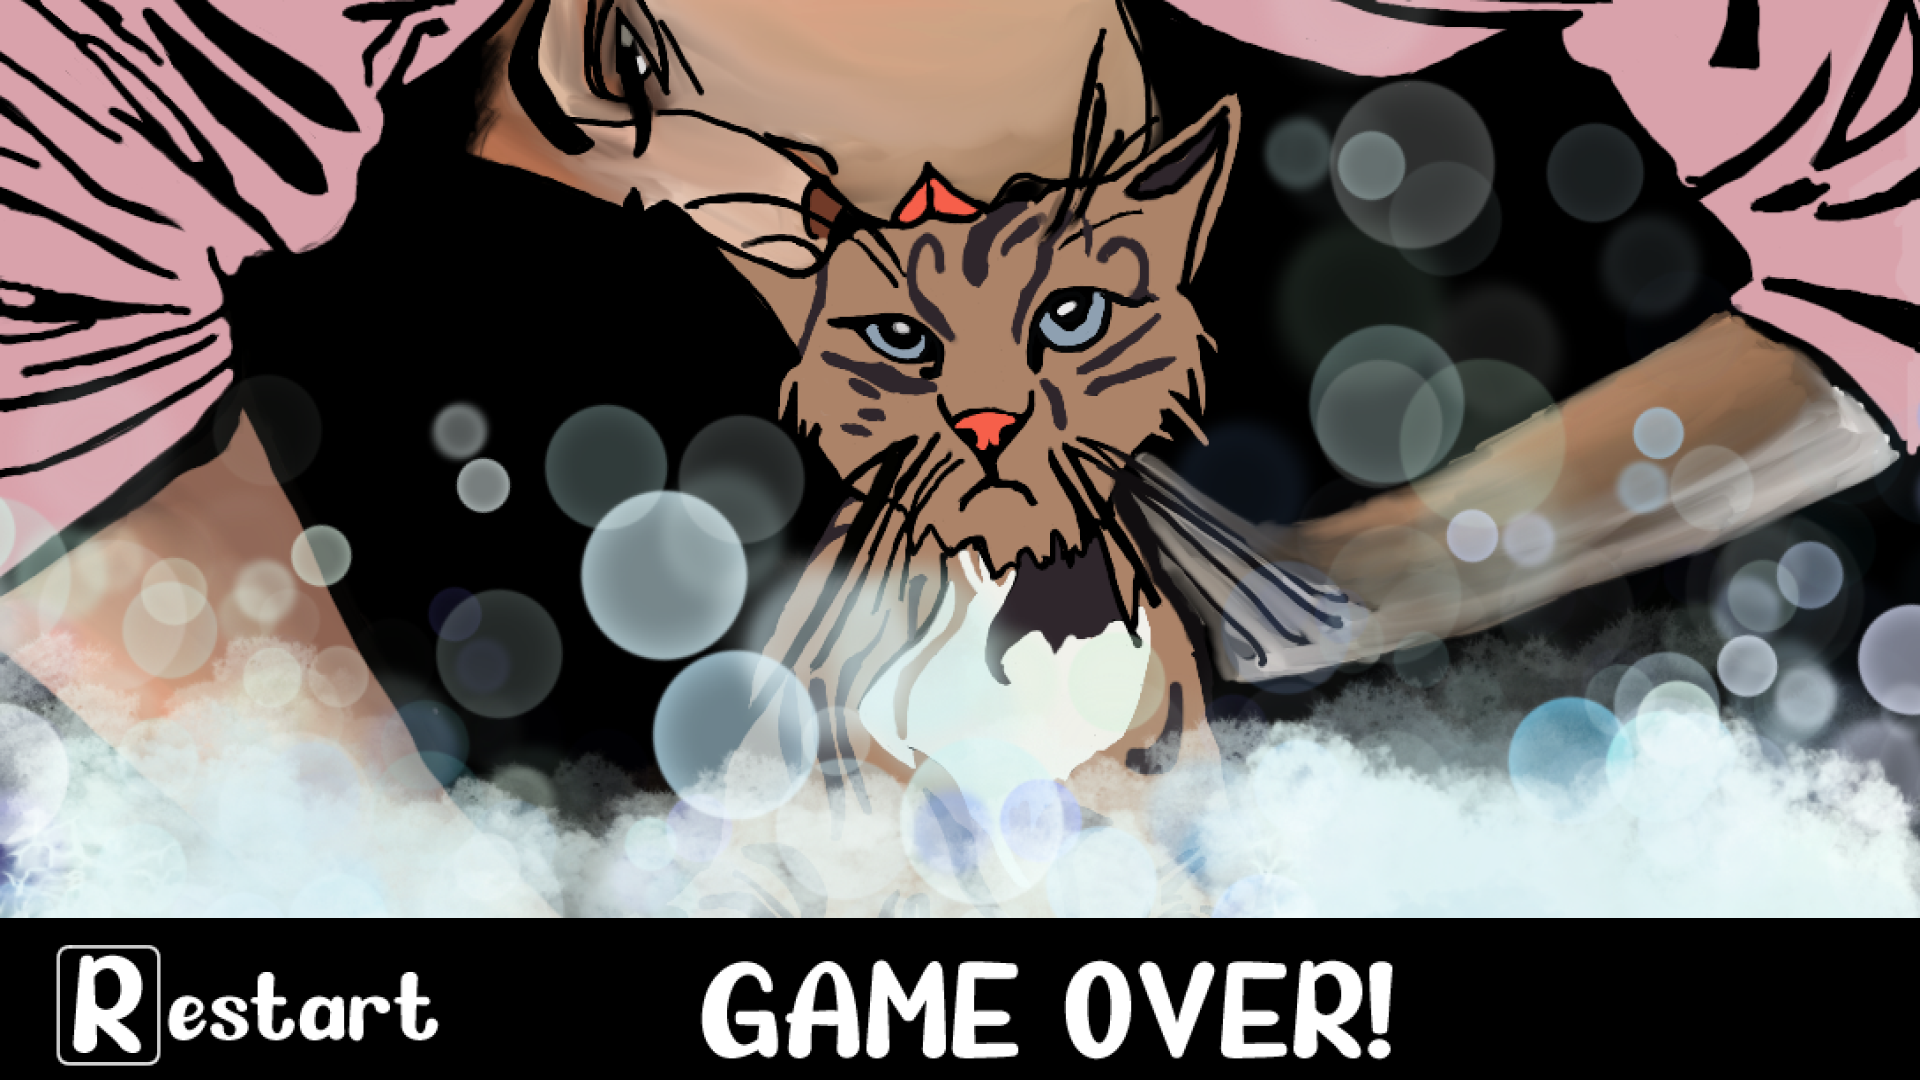
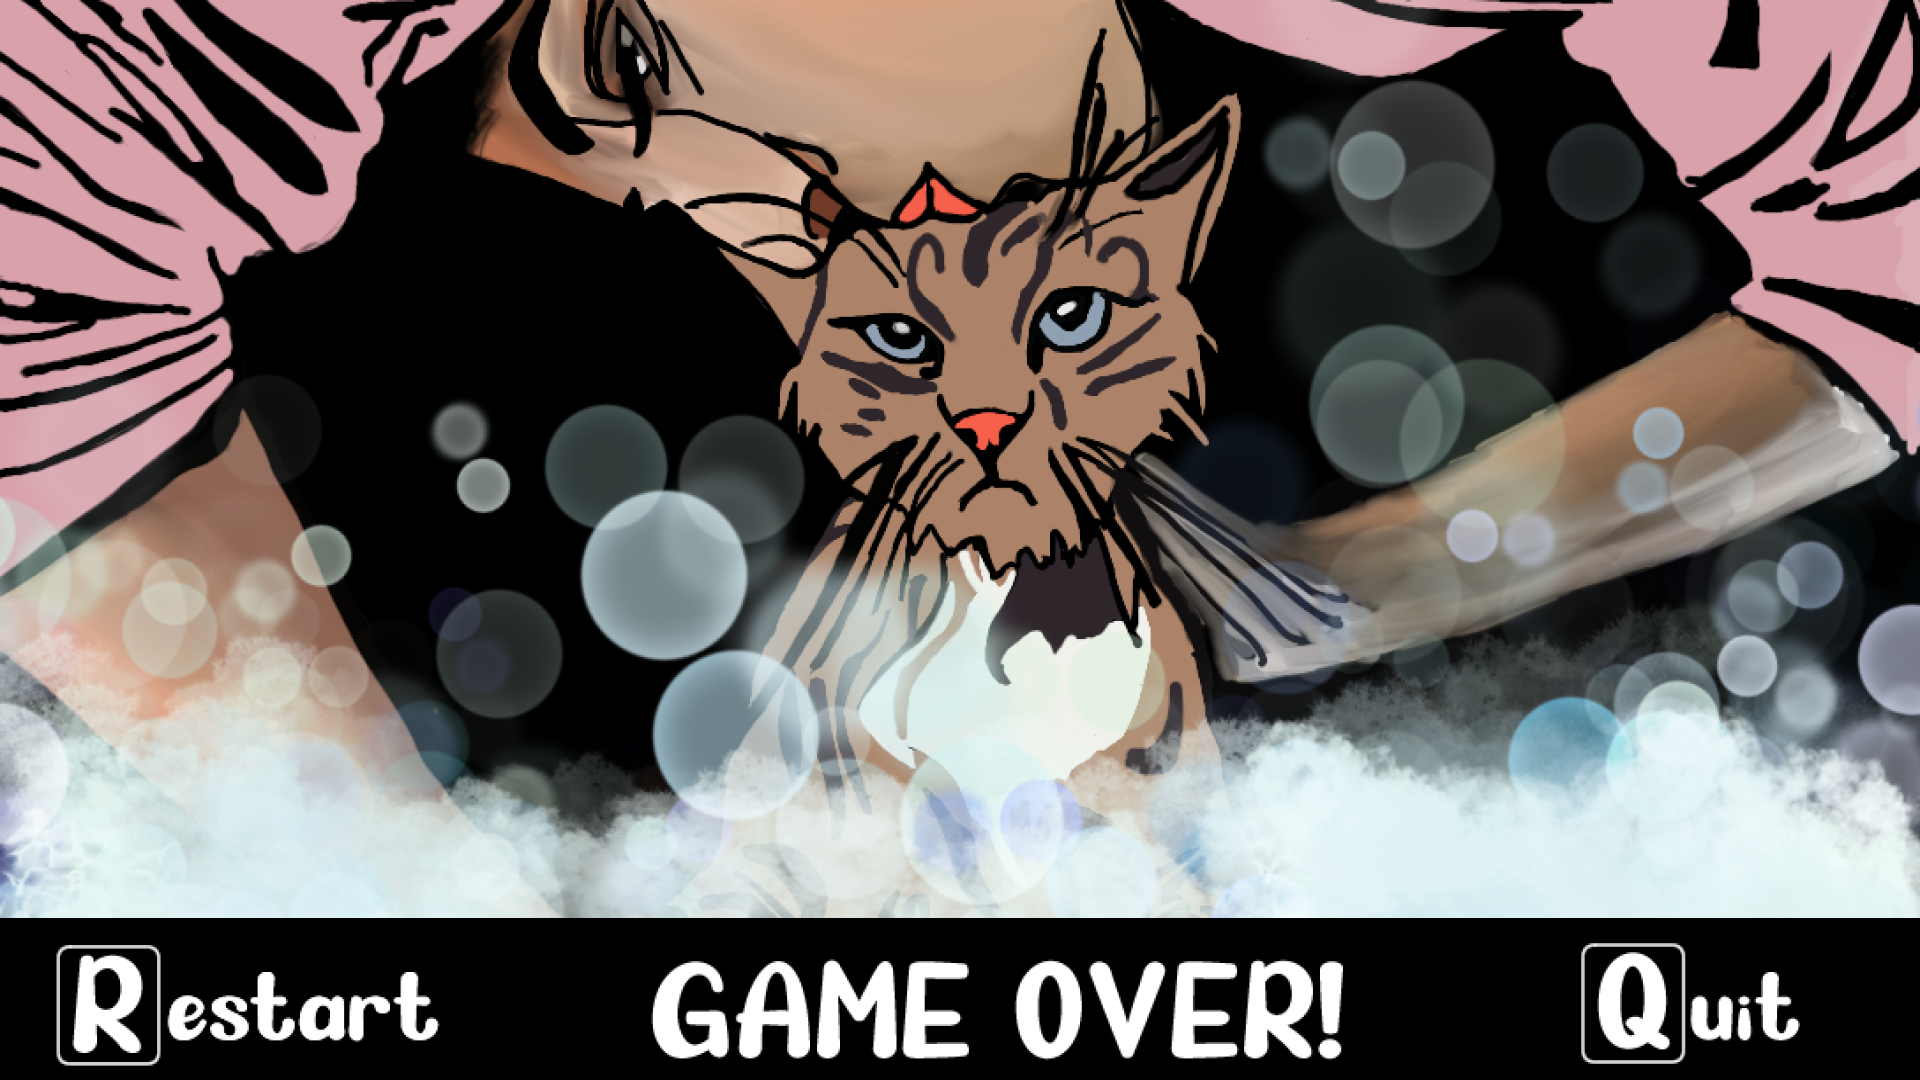
Added Credits scene, Easter egg gives +1 life

diff --git a/src/scenes/Play.js b/src/scenes/Play.js
@@ -17,7 +17,7 @@ class Play extends Phaser.Scene {
         this.load.image('wall', 'assets/img/kittyrun_prop_wall.png');
         this.load.image('table1', 'assets/img/table_tall.png');
         this.load.image('table2', 'assets/img/table_wide.png');
-        this.load.image('easter_egg', 'assets/img/to_the_moon.png')
+        this.load.image('easter_egg', 'assets/img/rocket.png')
 
         // bad obstacles (lose life)
         this.load.image('catnip', 'assets/img/obstacle_catnip.png');
@@ -136,6 +136,7 @@ class Play extends Phaser.Scene {
         // Easter Egg
         this.ee = this.add.sprite(game.config.width / 2, game.config.height / 2, "easter_egg");
         this.ee.alpha = 0;
+        this.to_the_moon = false;
 
 
         // "hideden" objects are invisible and "stored" to the left of the 
@@ -562,9 +563,6 @@ class Play extends Phaser.Scene {
             this.physics.add.existing(element);
         });
 
-        // comment to see hitboxes
-        // game.config.phsyics.arcade.debug = false;
-
     }
 
     update() {
@@ -575,11 +573,16 @@ class Play extends Phaser.Scene {
             this.scene.start('endScene');
             // go to end screen scene
         }
-        // console.log(this.p1Kitty.y);
+        // easter egg stuff, add life
         if (this.p1Kitty.y < 0) {
+            if (!this.to_the_moon) {
+                lives++;
+            }
+            this.to_the_moon = true;
             this.ee.alpha = 1;
         } else {
             this.ee.alpha = 0;
+            this.to_the_moon = false;
         }
         if (runningTime < 100) {
             this.volumeIndicator.alpha = 20 / runningTime;

diff --git a/src/main.js b/src/main.js
@@ -16,7 +16,7 @@
  * the two numbers that were sent. Another interesting feature is how the objects change to their shattered form then
  * get restored when they appear again, Oran accomplished this by storing a copy of the texture when the object is constructed
  * and when the reset function for the object is called, it restores the original texture. (Oran: looking back, I would have done things a little diffrently,
- * but I made it work with the knowledge I had). 
+ * but I made it work with the knowledge I had). There's also an easter egg where if you can jump high enough you get an extra life along with a fun meme
  * 
  */
 
@@ -25,7 +25,7 @@ let config = {
     type: Phaser.CANVAS,
     width: 1920,
     height: 1080,
-    scene: [Menu, Play, End],
+    scene: [Menu, Play, End, Credits],
     physics: {
         default: 'arcade',
         arcade: {
@@ -43,7 +43,7 @@ let borderUISize = game.config.height / 5;
 let borderPadding = borderUISize / 3;
 
 // keyboard input
-let keySPACE, keyP, keyW, keyR, keyUP, keyDOWN;
+let keySPACE, keyP, keyW, keyR, keyQ, keyESC, keyUP, keyDOWN;
 
 // variables needed for game
 let lives = 9, score = 0, obstacles = [], pointObjects = [], tables = [], frames = [], indexCount = 0, makingObstacle = false, makingPoint = false, obsDelay, pointDelay, runningTime;

diff --git a/src/scenes/Credits.js b/src/scenes/Credits.js
@@ -1,0 +1,34 @@
+/**
+ * Oran Shadian
+ */
+ class Credits extends Phaser.Scene {
+    constructor() {
+        super("creditScene");
+    }
+
+    preload() {
+        this.load.image('creditScene', 'assets/img/creditscard.png');
+        this.load.audio('musc', 'assets/aud/main_menu.wav');
+        this.load.audio('meow', 'assets/aud/Button_Meow.mp3');
+    }
+    create() {
+        // add background image
+        this.cred = this.add.image(0, 0, 'creditScene').setOrigin(0, 0);
+
+        // key R to restart
+        keyESC = this.input.keyboard.addKey(Phaser.Input.Keyboard.KeyCodes.ESC);
+
+        //playing game over song
+        this.song = this.sound.add('musc', {volume: 0.5, loop: true});
+        this.song.play(); 
+
+    }
+
+    update() {
+        if (Phaser.Input.Keyboard.JustDown(keyESC)) {
+            this.sound.play('meow');
+            this.song.mute = true;
+            this.scene.start('menuScene');
+        }
+    }
+ }

diff --git a/src/scenes/End.js b/src/scenes/End.js
@@ -17,6 +17,9 @@
         // key R to restart
         keyR = this.input.keyboard.addKey(Phaser.Input.Keyboard.KeyCodes.R);
 
+        // key Q to quit/see credits
+        keyQ = this.input.keyboard.addKey(Phaser.Input.Keyboard.KeyCodes.Q);
+
         //playing game over song
         this.song = this.sound.add('gameOver', {volume: 0.5, loop: true});
         this.song.play(); 
@@ -28,6 +31,11 @@
             this.sound.play('meow');
             this.song.mute = true;
             this.scene.start('playScene');
+        }
+        if (Phaser.Input.Keyboard.JustDown(keyQ)) {
+            this.sound.play('meow');
+            this.song.mute = true;
+            this.scene.start('creditScene');
         }
     }
  }

diff --git a/index.html b/index.html
@@ -11,6 +11,7 @@
     <script src="src/scenes/Menu.js"></script>
     <script src="src/scenes/Play.js"></script>
     <script src="src/scenes/End.js"></script>
+    <script src="src/scenes/Credits.js"></script>
     <script src="src/main.js"></script>
 </head>
 <body>
